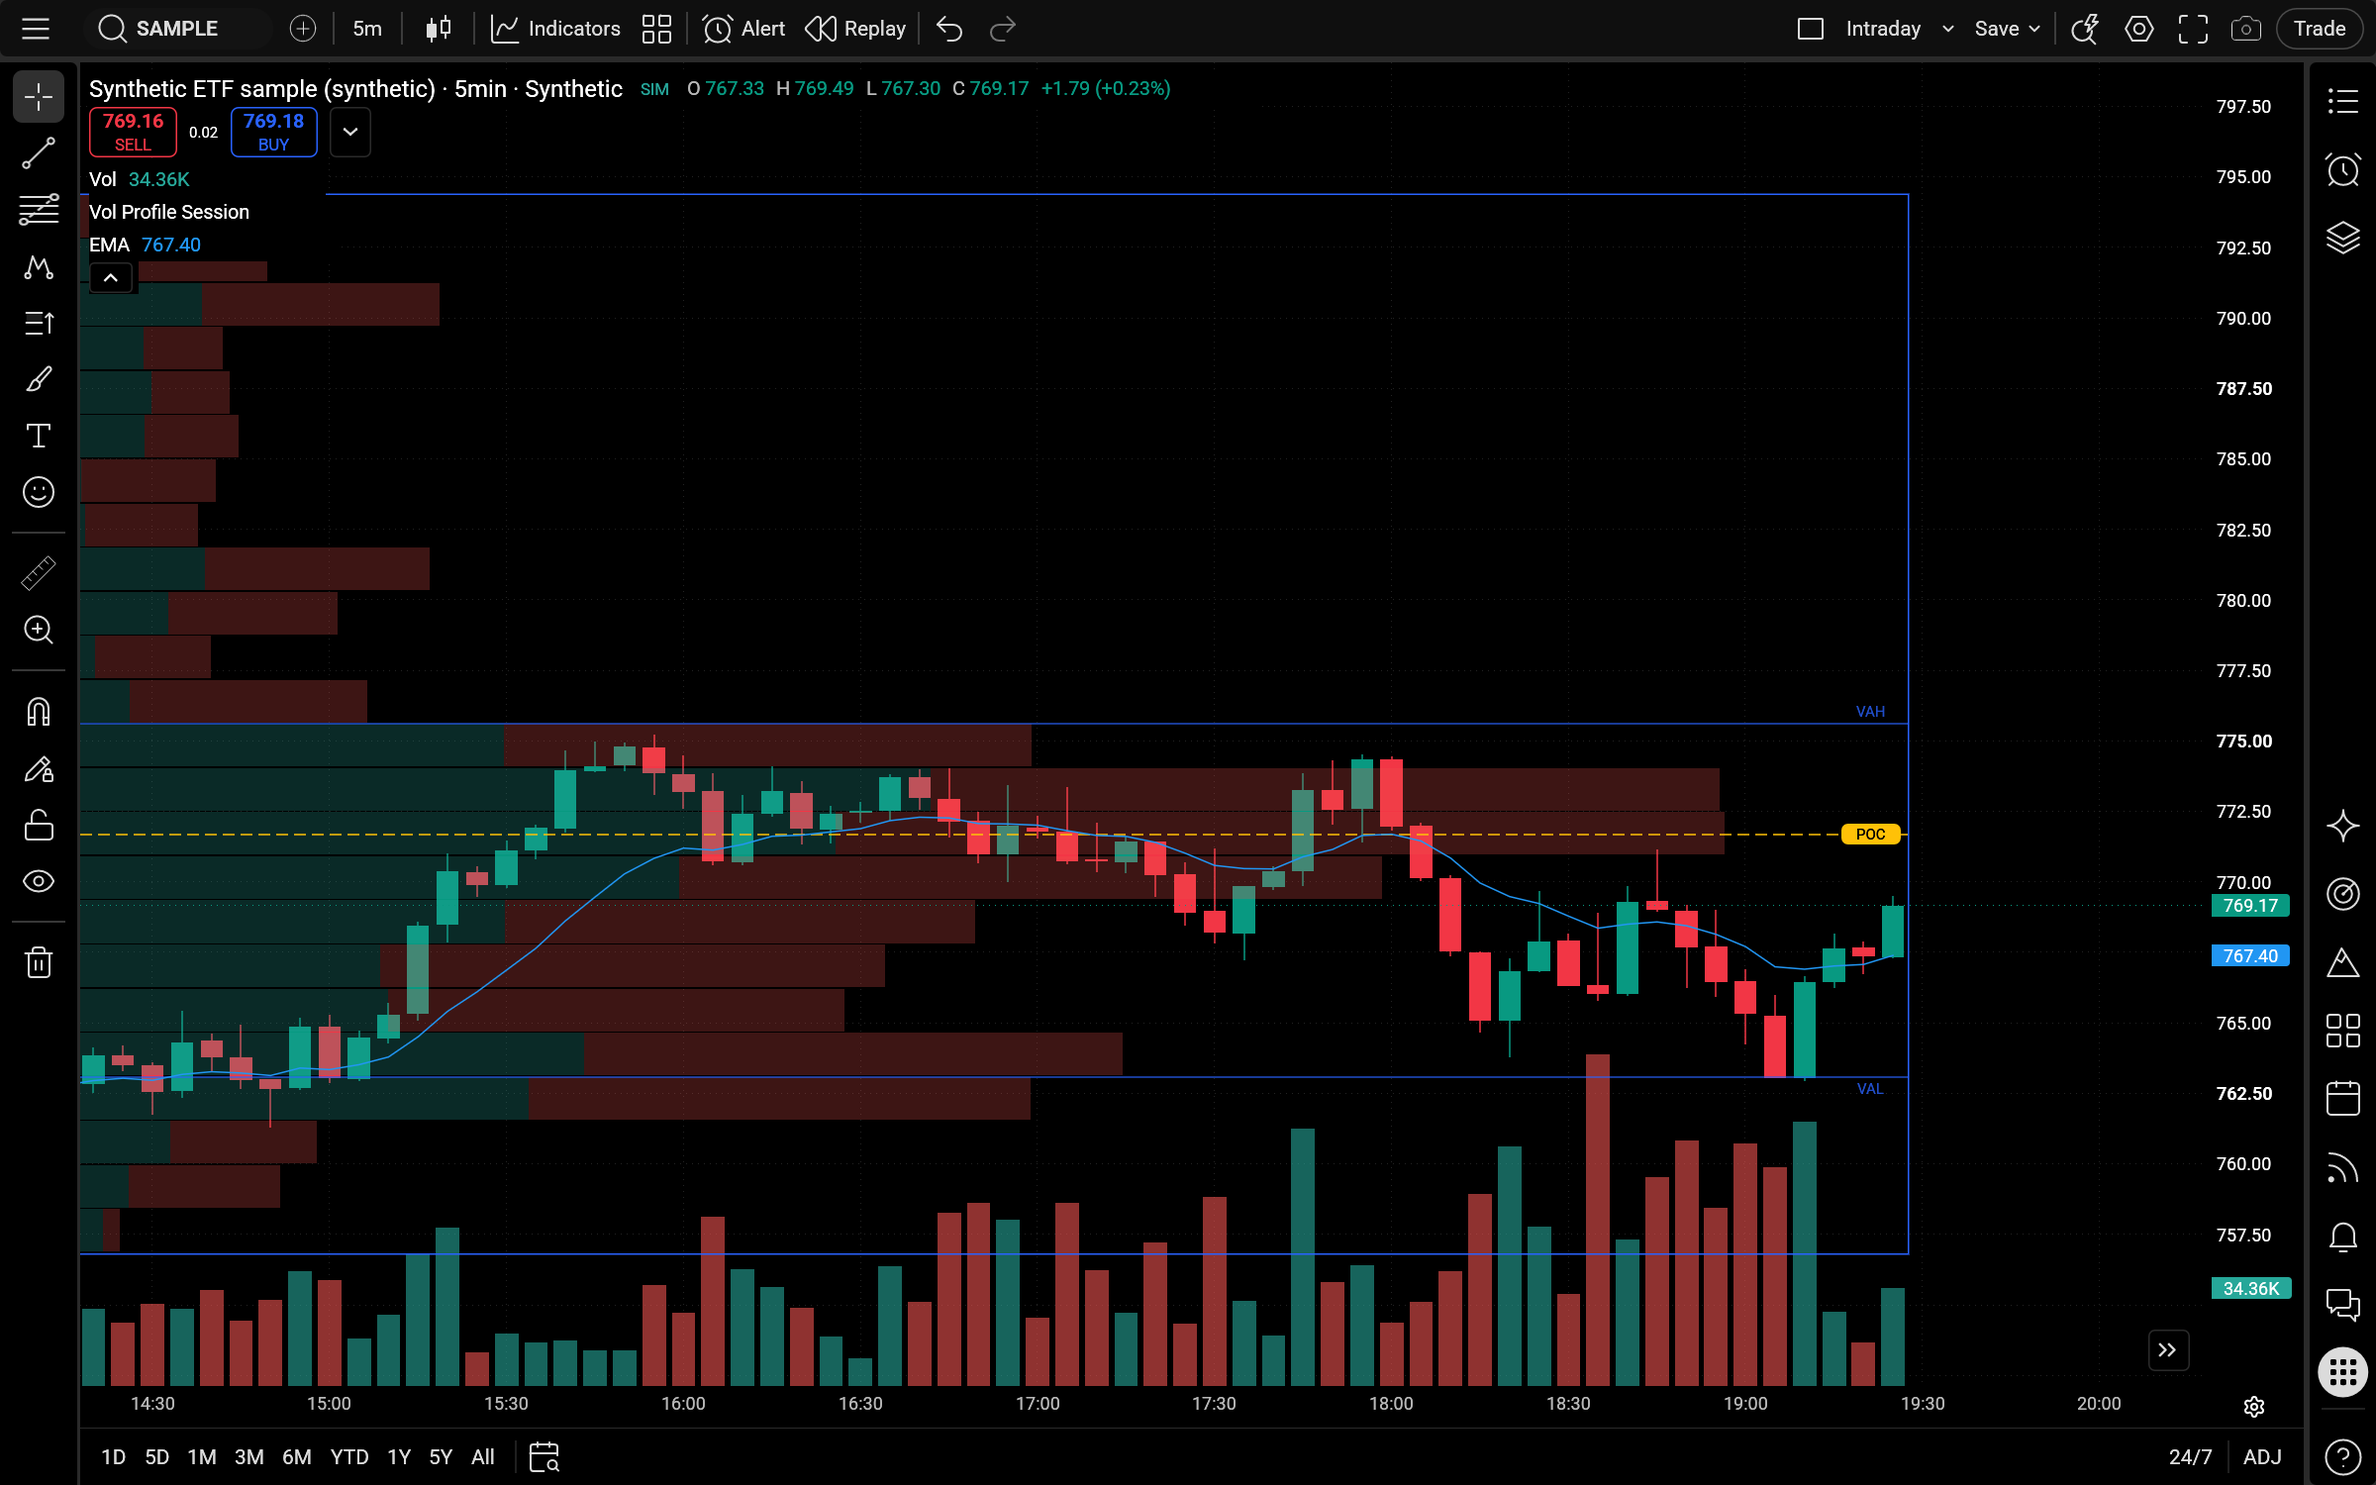
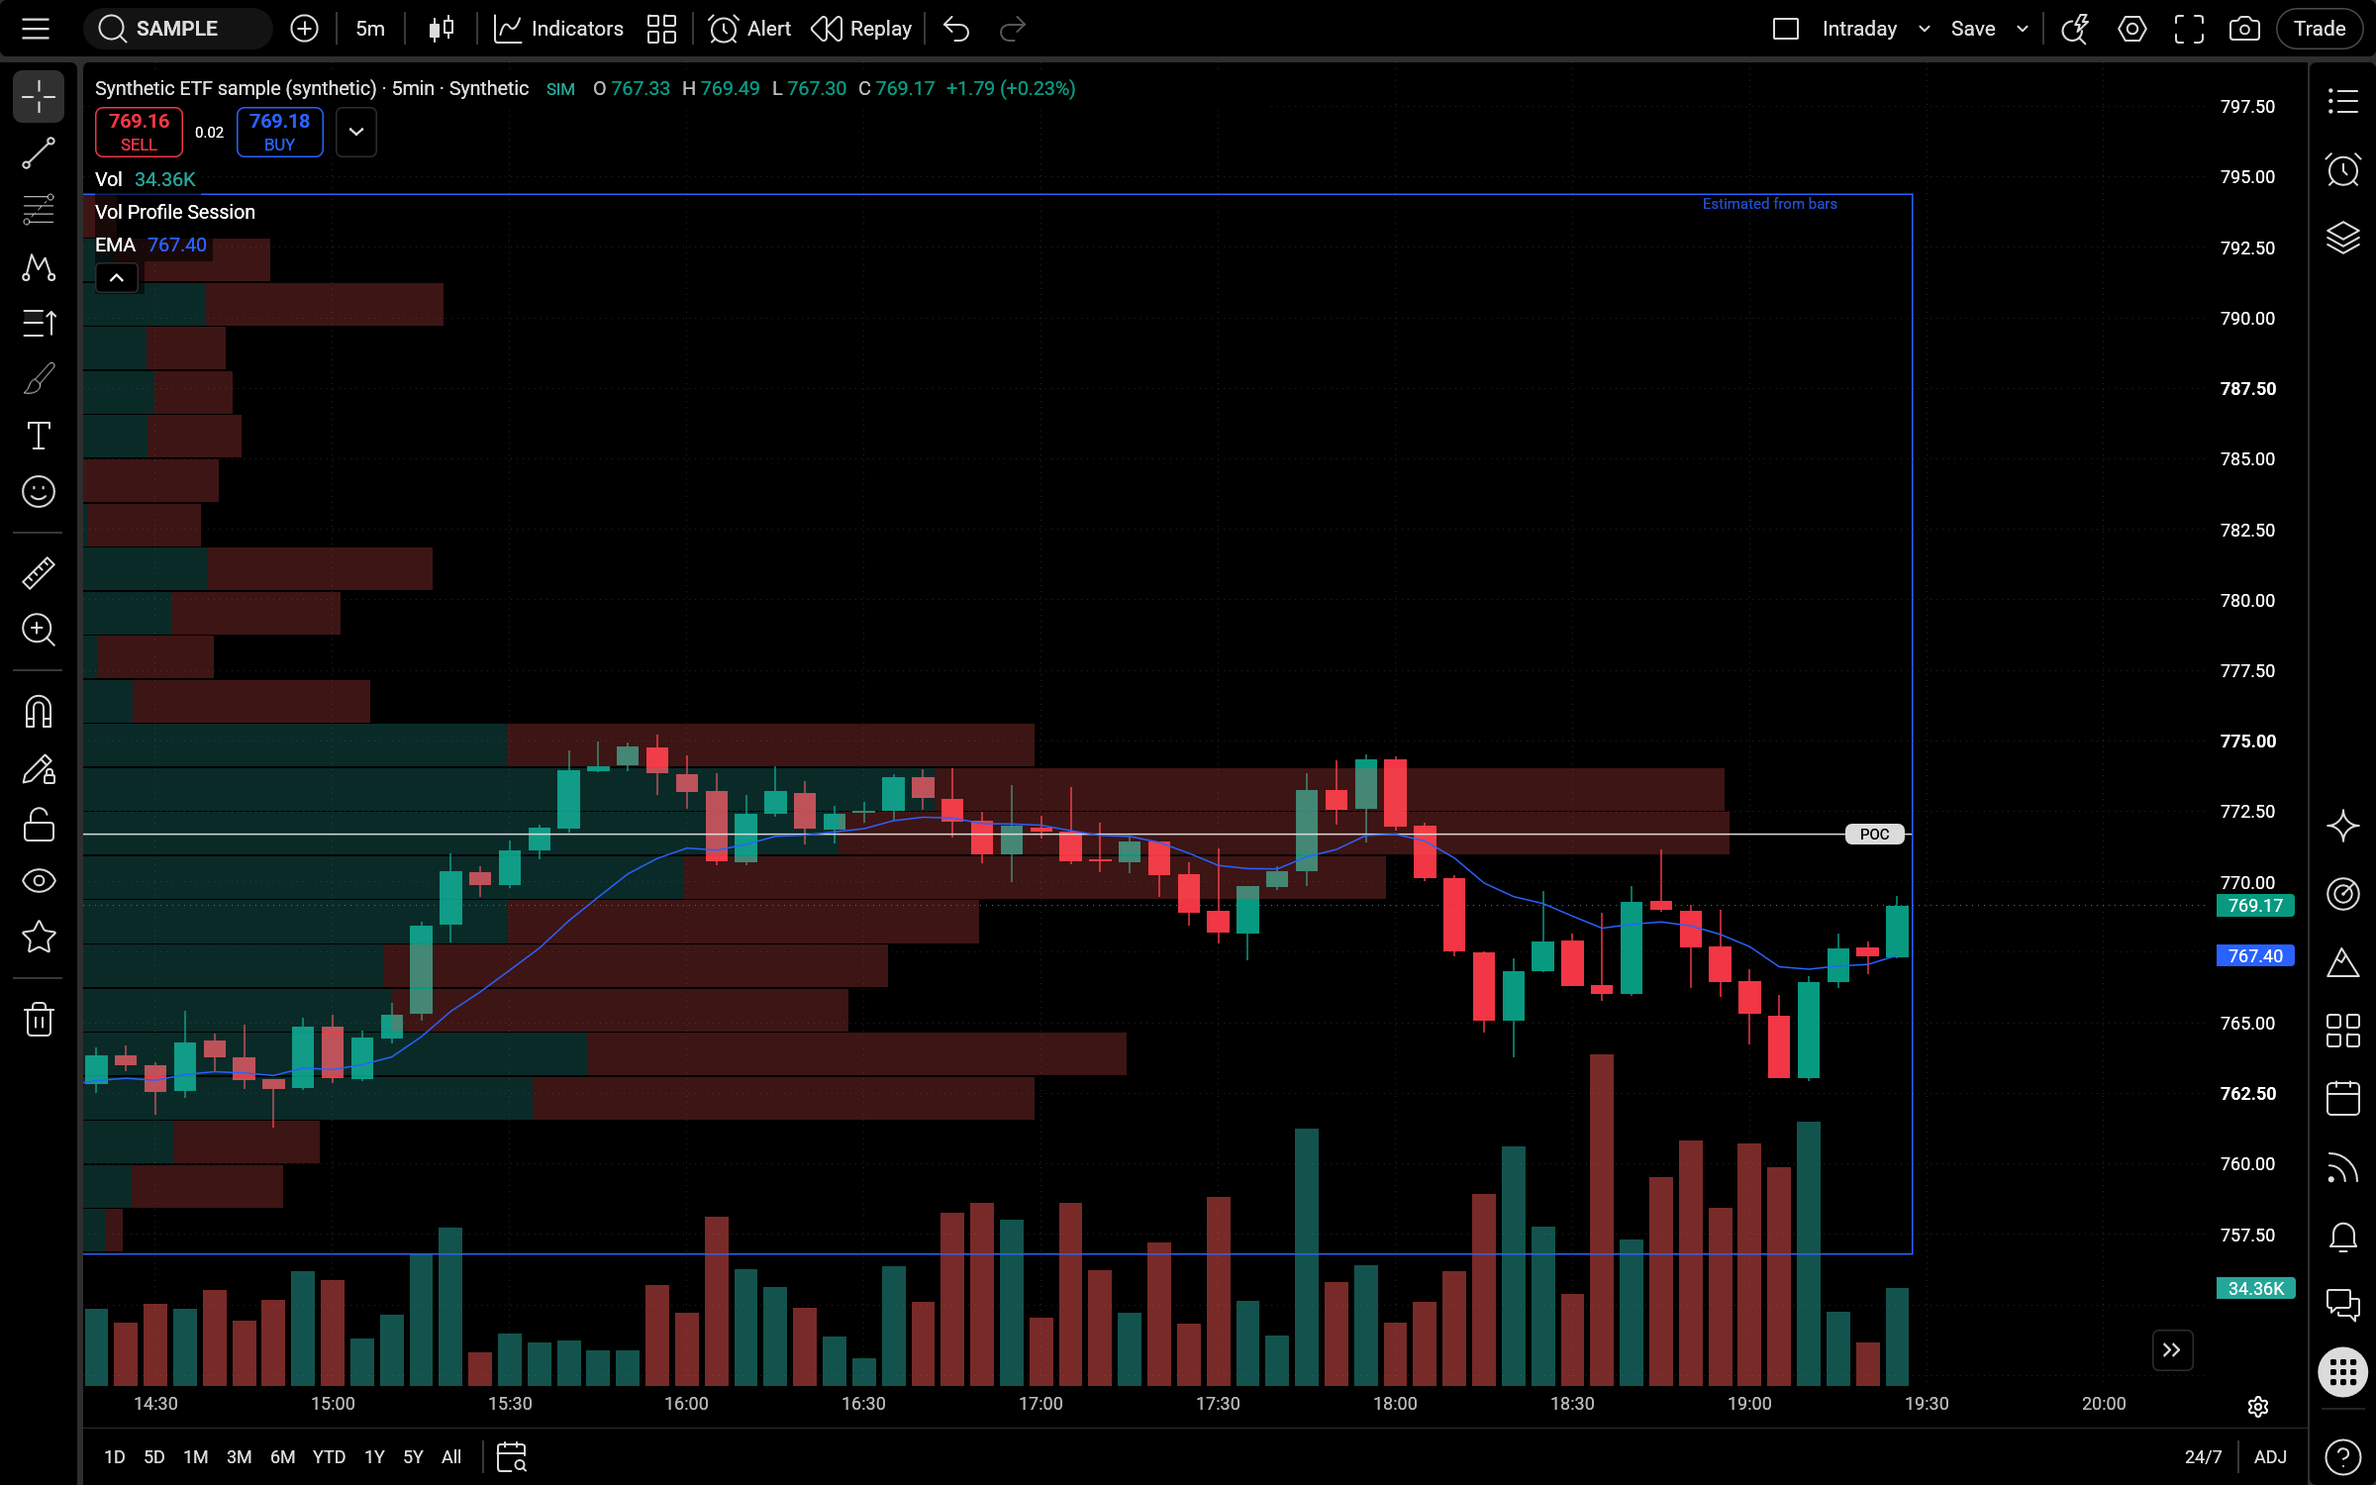
feat(studies): show when volume profile rows are estimated from bars
The fixed range and anchored volume profile drawings say when their rows
are estimated from bars or miss executions. The profile studies build
their rows the same way and said nothing, so the chart gave no hint that
they are estimates. The note moves from the drawing renderer into the
shared profile painter, so drawings, the built-in studies and a host's own
profiles follow one rule. Finer source bars narrow the estimate without
making it exact, so they keep the same note.

A study box that starts at the pane's left edge has the chart legend over
its top left corner, so a study whose rows start at the left notes its
source at the top right, short of the POC badge and value area labels.
Drawings and right-aligned studies keep the top left.

The note now shows only where it fits inside the profile, and it uses the
on-screen top of the box. On an inverted price scale a drawing's note used
to hang below the range, and from 60 points wide it overflowed the span.

Option strike profiles reported Estimated although they hold contract
volume from the host, which would have labelled them from bars.
ProfileSource::Options reports them, and they carry no note.

The profile README images are recaptured to show the note.

Closes #1441

diff --git a/src/studies/builtin/volume_profile.rs b/src/studies/builtin/volume_profile.rs
@@ -8,6 +8,8 @@
 //! instrument suggests for the length of its profiles,
 //! [`Instrument::profile_resolutions`](crate::model::Instrument::profile_resolutions).
 //! [`ProfileInput`] tells how much of a profile the finer bars cover.
+//! The chart notes each profile "Estimated from bars", also when finer bars cover all of it:
+//! they narrow the estimate without making it exact.
 
 use super::AutoAnchor;
 use super::anchor_period::{AnchorPeriod, ExchangeDays};
@@ -1201,7 +1203,18 @@ mod rendering_tests {
             egui::Shape::Rect(r) if (r.rect.height() - 49.0).abs() < 0.01)
             })
             .count();
+        // The rows are estimated from the bar, as noted at the top left of the
+        // right-aligned box: x from 280 (400 less 30%) plus 3, y of 12 = 50.
+        let notes: Vec<_> = output
+            .shapes
+            .iter()
+            .filter_map(|shape| match &shape.shape {
+                egui::Shape::Text(t) if t.galley.text() == "Estimated from bars" => Some(t.pos),
+                _ => None,
+            })
+            .collect();
         output.drop_without_applying_deltas();
+        assert_eq!(notes, [egui::pos2(283.0, 50.0)]);
         assert!(poc && rows >= 2, "profile rows {rows}, POC {poc}");
         // Equal row volumes put the POC at y=125; its line extends past the row fill.
         for (x, y, expected) in [
@@ -1250,6 +1263,54 @@ mod rendering_tests {
             )
             .is_some()
         );
+    }
+
+    /// A box that starts at the pane's left edge, under the chart legend, keeps its source note
+    /// at the right, short of the POC badge and the value area labels.
+    #[test]
+    fn profile_from_the_left_edge_notes_its_source_clear_of_the_legend() {
+        let bars: Vec<_> = (0..10)
+            .map(|i| {
+                let time = chrono::DateTime::UNIX_EPOCH + chrono::Duration::minutes(i);
+                Bar::new(time, 10.0, 12.0, 10.0, 11.0, 20.0)
+            })
+            .collect();
+        let mut study = VolProfileFixed::new(2);
+        study.calculate(&bars);
+        let indicators: Vec<Box<dyn Indicator>> = vec![Box::new(study)];
+        let rect = egui::Rect::from_min_size(egui::pos2(0.0, 0.0), egui::vec2(400.0, 200.0));
+        let price = PriceMap::new(
+            PriceTransform::default(),
+            PriceRange::new(9.0, 13.0),
+            0.0,
+            200.0,
+            false,
+        );
+        let coords = ChartMapping {
+            base_idx: 9,
+            ..ChartMapping::new(rect, 40.0, 0, 0, 0.0, price)
+        };
+        let output = egui::Context::default().run_ui(egui::RawInput::default(), |ui| {
+            IndicatorRenderer::render(
+                &RenderContext::new(ui.painter(), rect),
+                &indicators,
+                &bars,
+                &price,
+                &coords,
+            );
+        });
+        let note = output.shapes.iter().find_map(|shape| match &shape.shape {
+            egui::Shape::Text(t) if t.galley.text() == "Estimated from bars" => {
+                Some((t.pos.x + t.galley.size().x, t.pos.y))
+            }
+            _ => None,
+        });
+        output.drop_without_applying_deltas();
+        // Last bar's right edge at 399 (400 less half a 40-point bar, 1, plus half a bar), first
+        // bar's left edge clamped to 0; the note ends 50 short of 399, at the y of 12 = 50.
+        let (right, top) = note.expect("source note");
+        assert!((right - 349.0).abs() < 0.01, "note ends at {right}");
+        assert_eq!(top, 50.0);
     }
 
     /// A finer source interval is requested only when it is shorter than the chart's; its bars

diff --git a/src/drawings/rendering/trading/volume_profile.rs b/src/drawings/rendering/trading/volume_profile.rs
@@ -1,10 +1,9 @@
 //! Volume tools: anchored VWAP and the fixed range and anchored volume profiles
 
-use crate::data::{ProfileSource, VolumeProfile};
+use crate::data::VolumeProfile;
 use crate::drawings::domain::Drawing;
 use crate::drawings::domain::DrawingToolType;
 use crate::drawings::rendering::{ChartView, MAX_CACHED_SPANS, bars_between};
-use crate::localization as l10n;
 use crate::model::{Bar, SpanCache};
 use crate::painting::volume_profile::ProfileStyle;
 use crate::styles::{stroke, typography};
@@ -184,20 +183,6 @@ impl Drawing {
             },
             view.price_to_y,
         );
-        let note = match profile.source() {
-            ProfileSource::Estimated => "Estimated from bars",
-            ProfileSource::Executions { complete: false } => "Partial executions",
-            ProfileSource::Executions { complete: true } => return,
-        };
-        if right - left >= 60.0 {
-            painter.text(
-                Pos2::new(left + 3.0, (view.price_to_y)(profile.high())),
-                egui::Align2::LEFT_TOP,
-                l10n::text(painter.ctx(), note),
-                egui::FontId::proportional(typography::XS),
-                Color32::from_rgba_unmultiplied(self.color[0], self.color[1], self.color[2], 200),
-            );
-        }
     }
 
     /// The profile of `bars`, the span that starts at bar `first`: the executed volume at each
@@ -529,6 +514,7 @@ mod tests {
                     }
                     let mut lines = Vec::new();
                     let mut labels = 0;
+                    let mut notes = 0;
                     for shape in &shapes {
                         match &shape.shape {
                             egui::Shape::LineSegment { points, .. } => lines.push(points.to_vec()),
@@ -539,6 +525,11 @@ mod tests {
                             egui::Shape::Text(text) => {
                                 let label = text.galley.job.text.as_str();
                                 assert_ne!(label, "POC");
+                                if label == "Estimated from bars" {
+                                    notes += 1;
+                                    // The tint's top left corner on either scale, inset 3 points.
+                                    assert_eq!(text.pos, Pos2::new(103.0, 50.0));
+                                }
                                 if ["VAH", "VAL"].contains(&label) {
                                     assert!(va_lines);
                                     labels += 1;
@@ -565,6 +556,8 @@ mod tests {
                     // Labels need 50 px between the first anchor and the rows' far edge.
                     let reach = if anchored { 800.0 - 100.0 } else { width };
                     assert_eq!(labels, if va_lines && reach >= 50.0 { 2 } else { 0 });
+                    // The note fits in every span but the 24-point one.
+                    assert_eq!(notes, usize::from(width > 24.0));
                     assert!(
                         lines
                             .iter()

diff --git a/src/painting/volume_profile.rs b/src/painting/volume_profile.rs
@@ -1,7 +1,7 @@
 //! Price-row profile painting shared by studies and drawing tools.
 
-use crate::data::{ProfileDisplay, VolumeProfile, VolumeProfileConfig};
-use crate::styles::stroke;
+use crate::data::{ProfileDisplay, ProfileSource, VolumeProfile, VolumeProfileConfig};
+use crate::styles::{stroke, typography};
 use crate::theme::ThemeExt;
 use crate::tokens::DESIGN_TOKENS;
 use egui::{Color32, Pos2, Rect, Stroke, epaint::StrokeKind};
@@ -152,19 +152,60 @@ pub(crate) fn paint_profile(
         config.show_value_area_lines,
         drawing,
     );
-    if drawing {
+    if !drawing {
+        painter.rect_stroke(
+            rect,
+            0.0,
+            Stroke::new(
+                stroke::HAIRLINE,
+                Color32::from_rgba_unmultiplied(color[0], color[1], color[2], color[3]),
+            ),
+            StrokeKind::Outside,
+        );
+    }
+    // A study box often starts at the pane's left edge, under the chart legend, so a study whose
+    // rows start at the left notes its source at the right.
+    let note_right = !drawing && !right_aligned;
+    paint_source_note(painter, profile.source(), rect, note_right, color);
+}
+
+/// Notes at the top of `rect`, in the colour of the value area lines, a profile that does not hold
+/// every execution of its span, when the note fits inside `rect`. It takes the left corner, or
+/// with `right` the room left of the POC badge and the value area labels.
+fn paint_source_note(
+    painter: &egui::Painter,
+    source: ProfileSource,
+    rect: Rect,
+    right: bool,
+    color: [u8; 4],
+) {
+    let note = match source {
+        ProfileSource::Estimated => "Estimated from bars",
+        ProfileSource::Executions { complete: false } => "Partial executions",
+        ProfileSource::Executions { complete: true } | ProfileSource::Options => return,
+    };
+    // No narrower profile has room for a note, so its text is never laid out.
+    if rect.width() < 60.0 {
         return;
     }
-    painter.rect_stroke(
-        rect,
-        0.0,
-        Stroke::new(
-            stroke::HAIRLINE,
-            Color32::from_rgba_unmultiplied(color[0], color[1], color[2], color[3]),
-        ),
-        StrokeKind::Outside,
+    let color = Color32::from_rgba_unmultiplied(color[0], color[1], color[2], 200);
+    let galley = painter.layout_no_wrap(
+        crate::localization::text(painter.ctx(), note),
+        egui::FontId::proportional(typography::XS),
+        color,
     );
+    let size = galley.size();
+    if rect.is_finite() && size.x + 6.0 <= rect.width() && size.y <= rect.height() {
+        let left = rect.left() + 3.0;
+        let x = if right {
+            (rect.right() - 50.0 - size.x).max(left)
+        } else {
+            left
+        };
+        painter.galley(Pos2::new(x, rect.top()), galley, color);
+    }
 }
+
 fn draw_volume_profile_lines(
     painter: &egui::Painter,
     rect: &Rect,

diff --git a/src/data/volume_profile.rs b/src/data/volume_profile.rs
@@ -166,6 +166,8 @@ pub enum ProfileSource {
         /// Whether executions are held from the start of the span.
         complete: bool,
     },
+    /// Call and put contract volume at each strike, from [`VolumeProfile::from_options`].
+    Options,
 }
 
 /// The executions behind an exact profile, whose POC and value area follow [`FootprintBar`].
@@ -192,6 +194,8 @@ pub struct VolumeProfile {
     pub(crate) up: Vec<f64>,
     pub(crate) down: Vec<f64>,
     executions: Option<Executions>,
+    /// Built from option strikes by [`Self::from_options`].
+    options: bool,
 }
 
 fn valid_bar(bar: &Bar) -> bool {
@@ -256,6 +260,7 @@ impl VolumeProfile {
             up: vec![0.0; count as usize],
             down: vec![0.0; count as usize],
             executions: None,
+            options: true,
         };
         let mut total = 0.0;
         for v in data {
@@ -320,6 +325,7 @@ impl VolumeProfile {
                 bar: bar.clone(),
                 complete,
             }),
+            options: false,
         };
         for (&level, row) in &bar.levels {
             let i = (level - first) as usize;
@@ -330,8 +336,11 @@ impl VolumeProfile {
         Some(profile)
     }
 
-    /// Whether the volumes are estimated from bars or executed.
+    /// Whether the volumes are estimated from bars, executed or option turnover.
     pub fn source(&self) -> ProfileSource {
+        if self.options {
+            return ProfileSource::Options;
+        }
         self.executions
             .as_ref()
             .map_or(ProfileSource::Estimated, |e| ProfileSource::Executions {
@@ -404,6 +413,7 @@ impl VolumeProfile {
             up: vec![0.0; rows],
             down: vec![0.0; rows],
             executions: None,
+            options: false,
         };
         bars.iter().for_each(|bar| profile.add(bar));
         Some(profile)
@@ -809,6 +819,7 @@ mod tests {
         })
         .collect();
         let profile = VolumeProfile::from_options(&data, 4.0).unwrap();
+        assert_eq!(profile.source(), ProfileSource::Options);
         assert_eq!(
             (profile.low(), profile.high(), profile.row_height()),
             (98.0, 110.0, 4.0)
